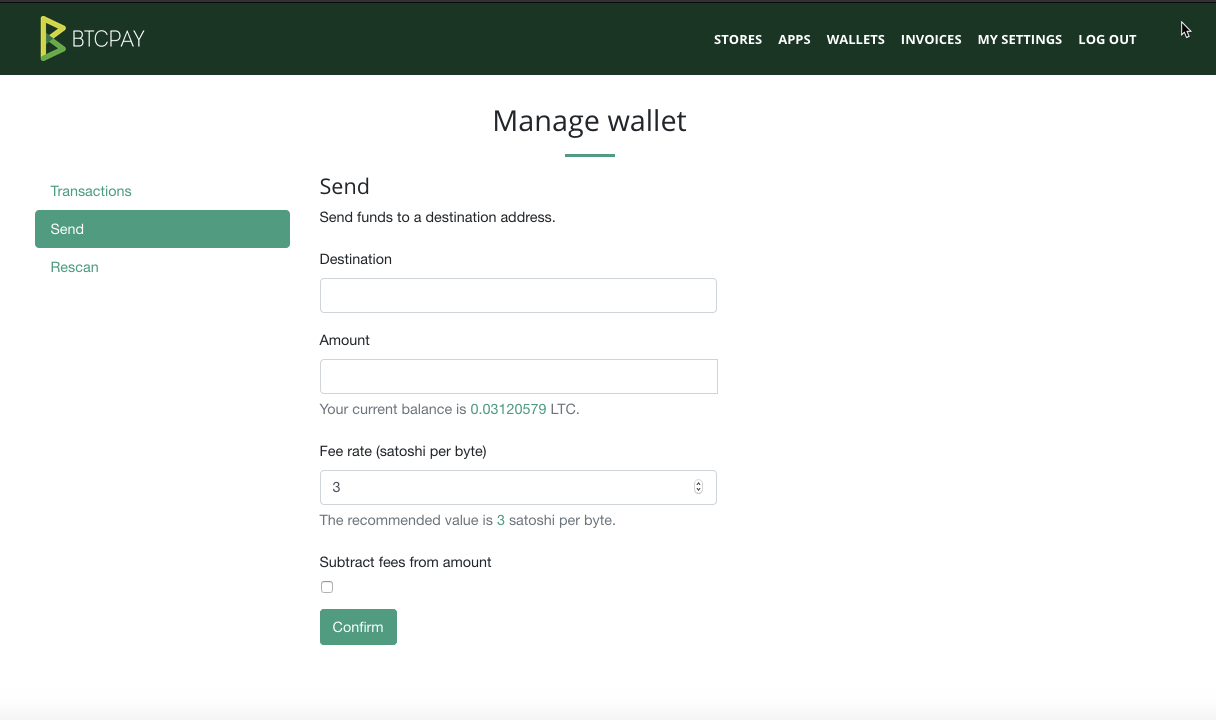
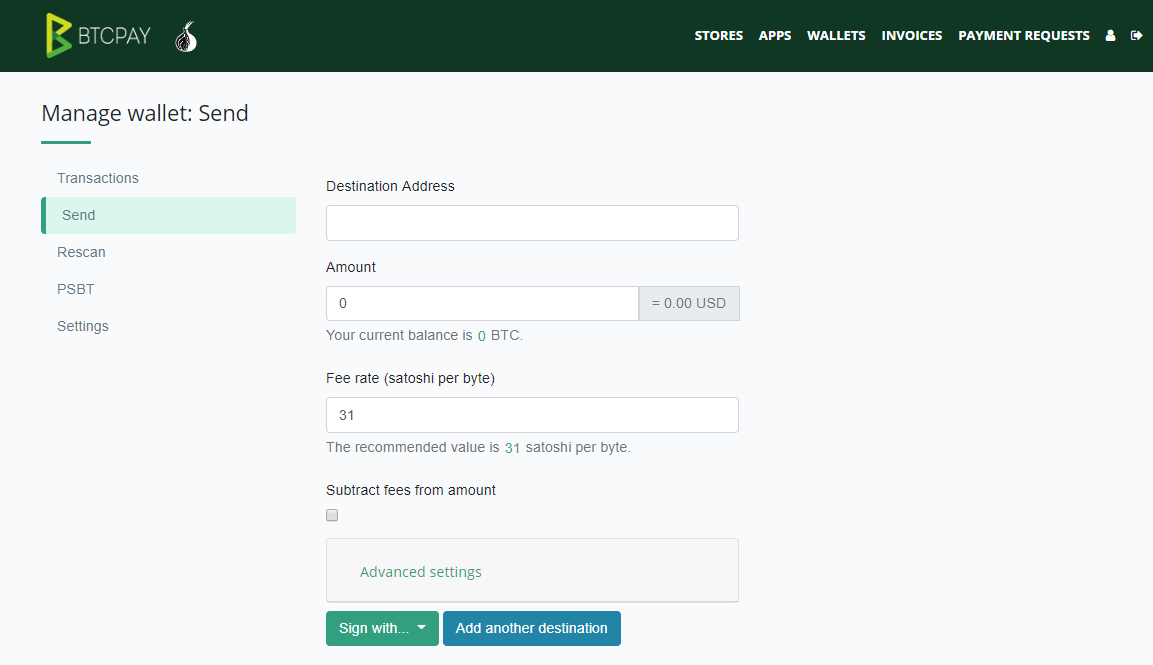
Improve Wallet.md
Add new UI images, reduce the cluttered text, add new options

diff --git a/Wallet.md b/Wallet.md
@@ -1,38 +1,45 @@
 # BTCPay Server Wallet
 This document explains the features of the internal BTCPay wallet. For frequently asked questions - check the [Wallets FAQ](FAQ/FAQ-Wallet.md)
 
-Note: A [private key](https://en.bitcoin.it/wiki/Private_key) (xprv) is **never** required for BTCPay to work. The software needs a public key (xpub) which is a watch-only wallet token. The xpubkey allows BTCPay to generate a new address each time a new invoice is created. It enables users to observe the wallet balance and transactions without having to share their private key.
+Note: A [private key](https://en.bitcoin.it/wiki/Private_key) (xprv) is **never** required for receiving money to a BTCPay wallet. The software needs a public key (xpubkey) which is a watch-only wallet token. The xpubkey allows BTCPay to generate a new address each time a new invoice is generated. It enables users to observe the wallet balance and transactions without having to share their private key.
 
-If you're using a [third-party host](ThirdPartyHosting.md) and are asked to provide a private key, it's certainly a scam. Never share your private key with anyone. It's called private for a reason. 
+*The wallet does not generate a private key. Users have to create their own private key externally and import an xpubkey derived from the private key into Store Settings > Derivation scheme.  The public key (xpubkey) can be imported from a compatible hardware wallet or added manually by pasting the key into the field and adding an appropriate suffix. For more information on how to add a derivation scheme to BTCPay, see the [Getting Started Guide](GettingStarted.md). If you're using a [third-party host](ThirdPartyHosting.md) and are asked to provide a private key, it's certainly a scam. Never share your private key with anyone. It's called private for a reason.*
 
-BTCPay has an **internal**, full node reliant wallet that can be accessed by clicking "Wallets" from the top menu. The reliance on the user's own full node makes the wallet more private and secure compared to any [SPV](https://en.bitcoin.it/wiki/Thin_Client_Security#Simplified_Payment_Verification_.28SPV.29) wallet.
+BTCPay's **internal**, full-node reliant wallet that can be accessed by clicking **Wallets** from the top menu. The reliance on the user's own full node makes the wallet more private and secure compared to any [SPV](https://en.bitcoin.it/wiki/Thin_Client_Security#Simplified_Payment_Verification_.28SPV.29) wallet.
 
-The internal wallet does not generate a private key. Users have to create their own private key externally and enter xpubkey derived from xpriv into Store Settings > Derivation scheme to activate the internal wallet. 
-
-The public key can be easily added from external wallet like Electrum by pasting it into derivation scheme field, or automatically with a compatible hardware wallet. For more information on how to add a derivation scheme to BTCPay, see the [Getting Started Guide](GettingStarted.md)
-
-Each store and cryptocurrency have a separate wallet displayed on the Wallets page.  To access a particular wallet, select "Manage."
+Each store and a cryptocurrency have a separate wallet displayed on the Wallets page. To access a particular wallet, click **Manage**.
 
 ![Wallets Page BTCPay](img/BTCPayWallets1.png)
 
 ### Wallet overview
 
-The wallet is minimal and easy to use. It contains several functions:
+The wallet contains following features:
 1. Transactions
 2. Send 
 3. Re-scan
+4. PSBT 
+5. Settings
 
 #### Transactions
-An overview of your incoming (green), outgoing (red) and unconfirmed (greyed out) transactions displayed together with timestamp and balances, sorted by date. Users can click on the tx ID to preview the transaction on the block explorer.
+An overview of the incoming (green), outgoing (red) and unconfirmed (greyed out) transactions displayed together with timestamp and balances, sorted by date. Users can click on the tx ID to preview the transaction on the block explorer.
 
 ![Individual Wallet](img/BTCPayWallets2.png)
 
 #### Send
-Users who own a compatible hardware wallet can use the send function to send the funds from the wallet. Quite simply, to send the funds, the user is required to sign and confirm the transaction on the hardware wallet - physically.
+
+The Send function allows spending of the funds from the BTCPay wallet.
 
 ![Send from the Wallet](img/BTCPayWallets3.png)
 
-##### Make sure no change UTXO is created (Expert mode)
+Since the wallet is not a hot wallet, in order to spend the funds, user is required to sign the transaction.  Signing can be achieved in several ways :
+
+- LedgerHardware Wallet
+- HD Private key or mnemonic seed
+- Wallet supporting PSBT
+
+##### Advanced Settings
+
+###### Make sure no change UTXO is created (Expert mode)
 
 This option is available in the `expert mode` of the Send page.
 It is a privacy enhancing feature which is useful when you send to another of your own wallet or to an exchange. It makes sure that no change UTXO is created by **rounding up** the amount sent.
